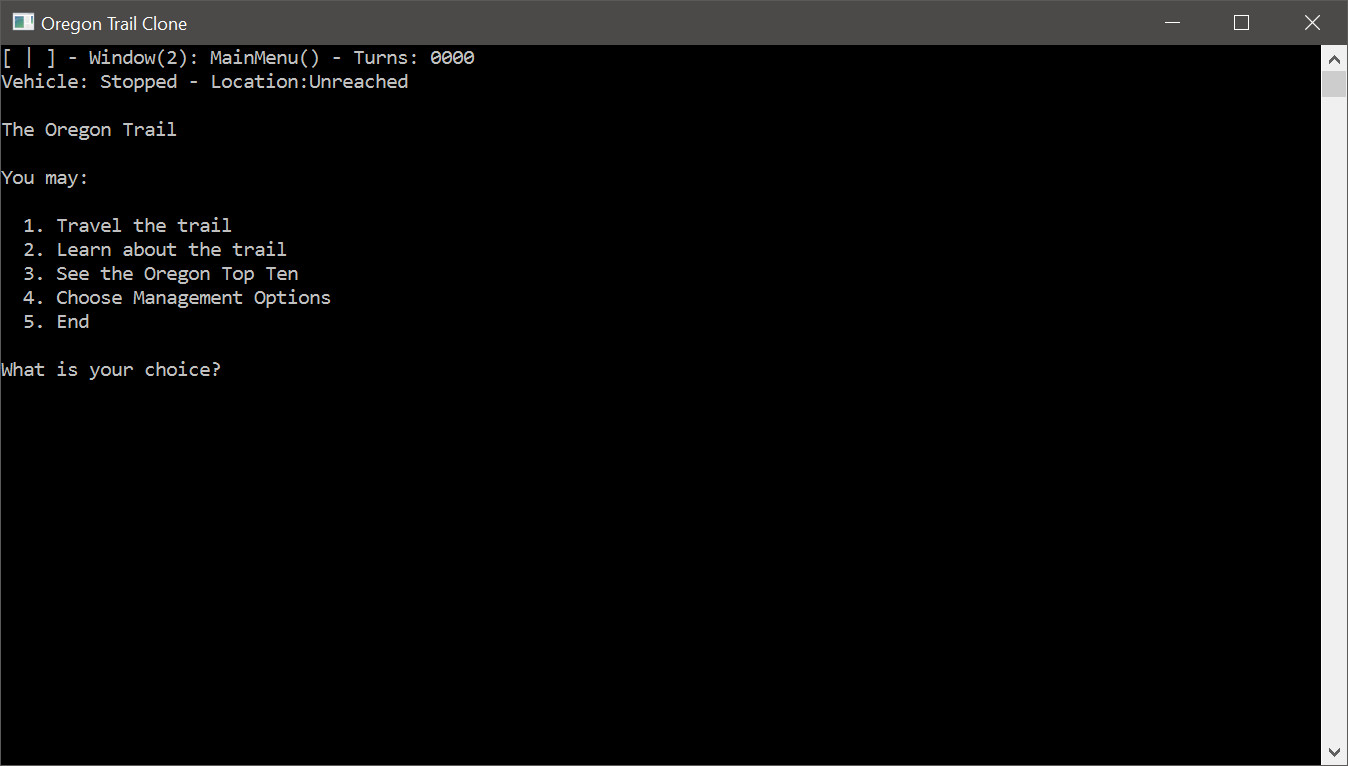
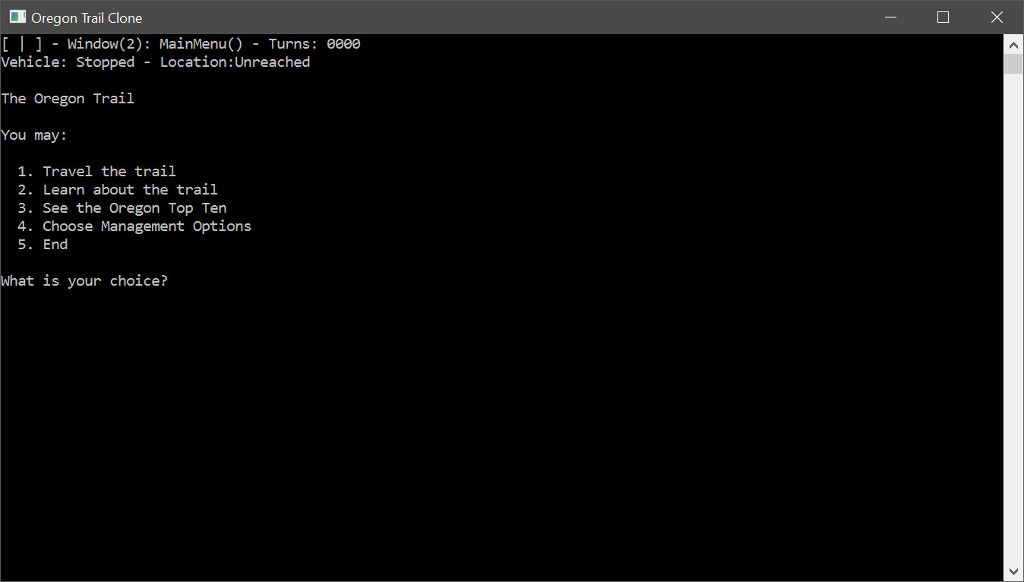
Update readme and reduced main menu graphic size.

diff --git a/README.md b/README.md
@@ -2,6 +2,8 @@
 
 Clone of popular 90's computer game for C#.
 
+![Oregon Trail Main Menu](https://raw.githubusercontent.com/Maxwolf/OregonTrail/master/media/TitleScreen.jpg)
+
 ## Cloning Instructions ##
 
 ```cmd
